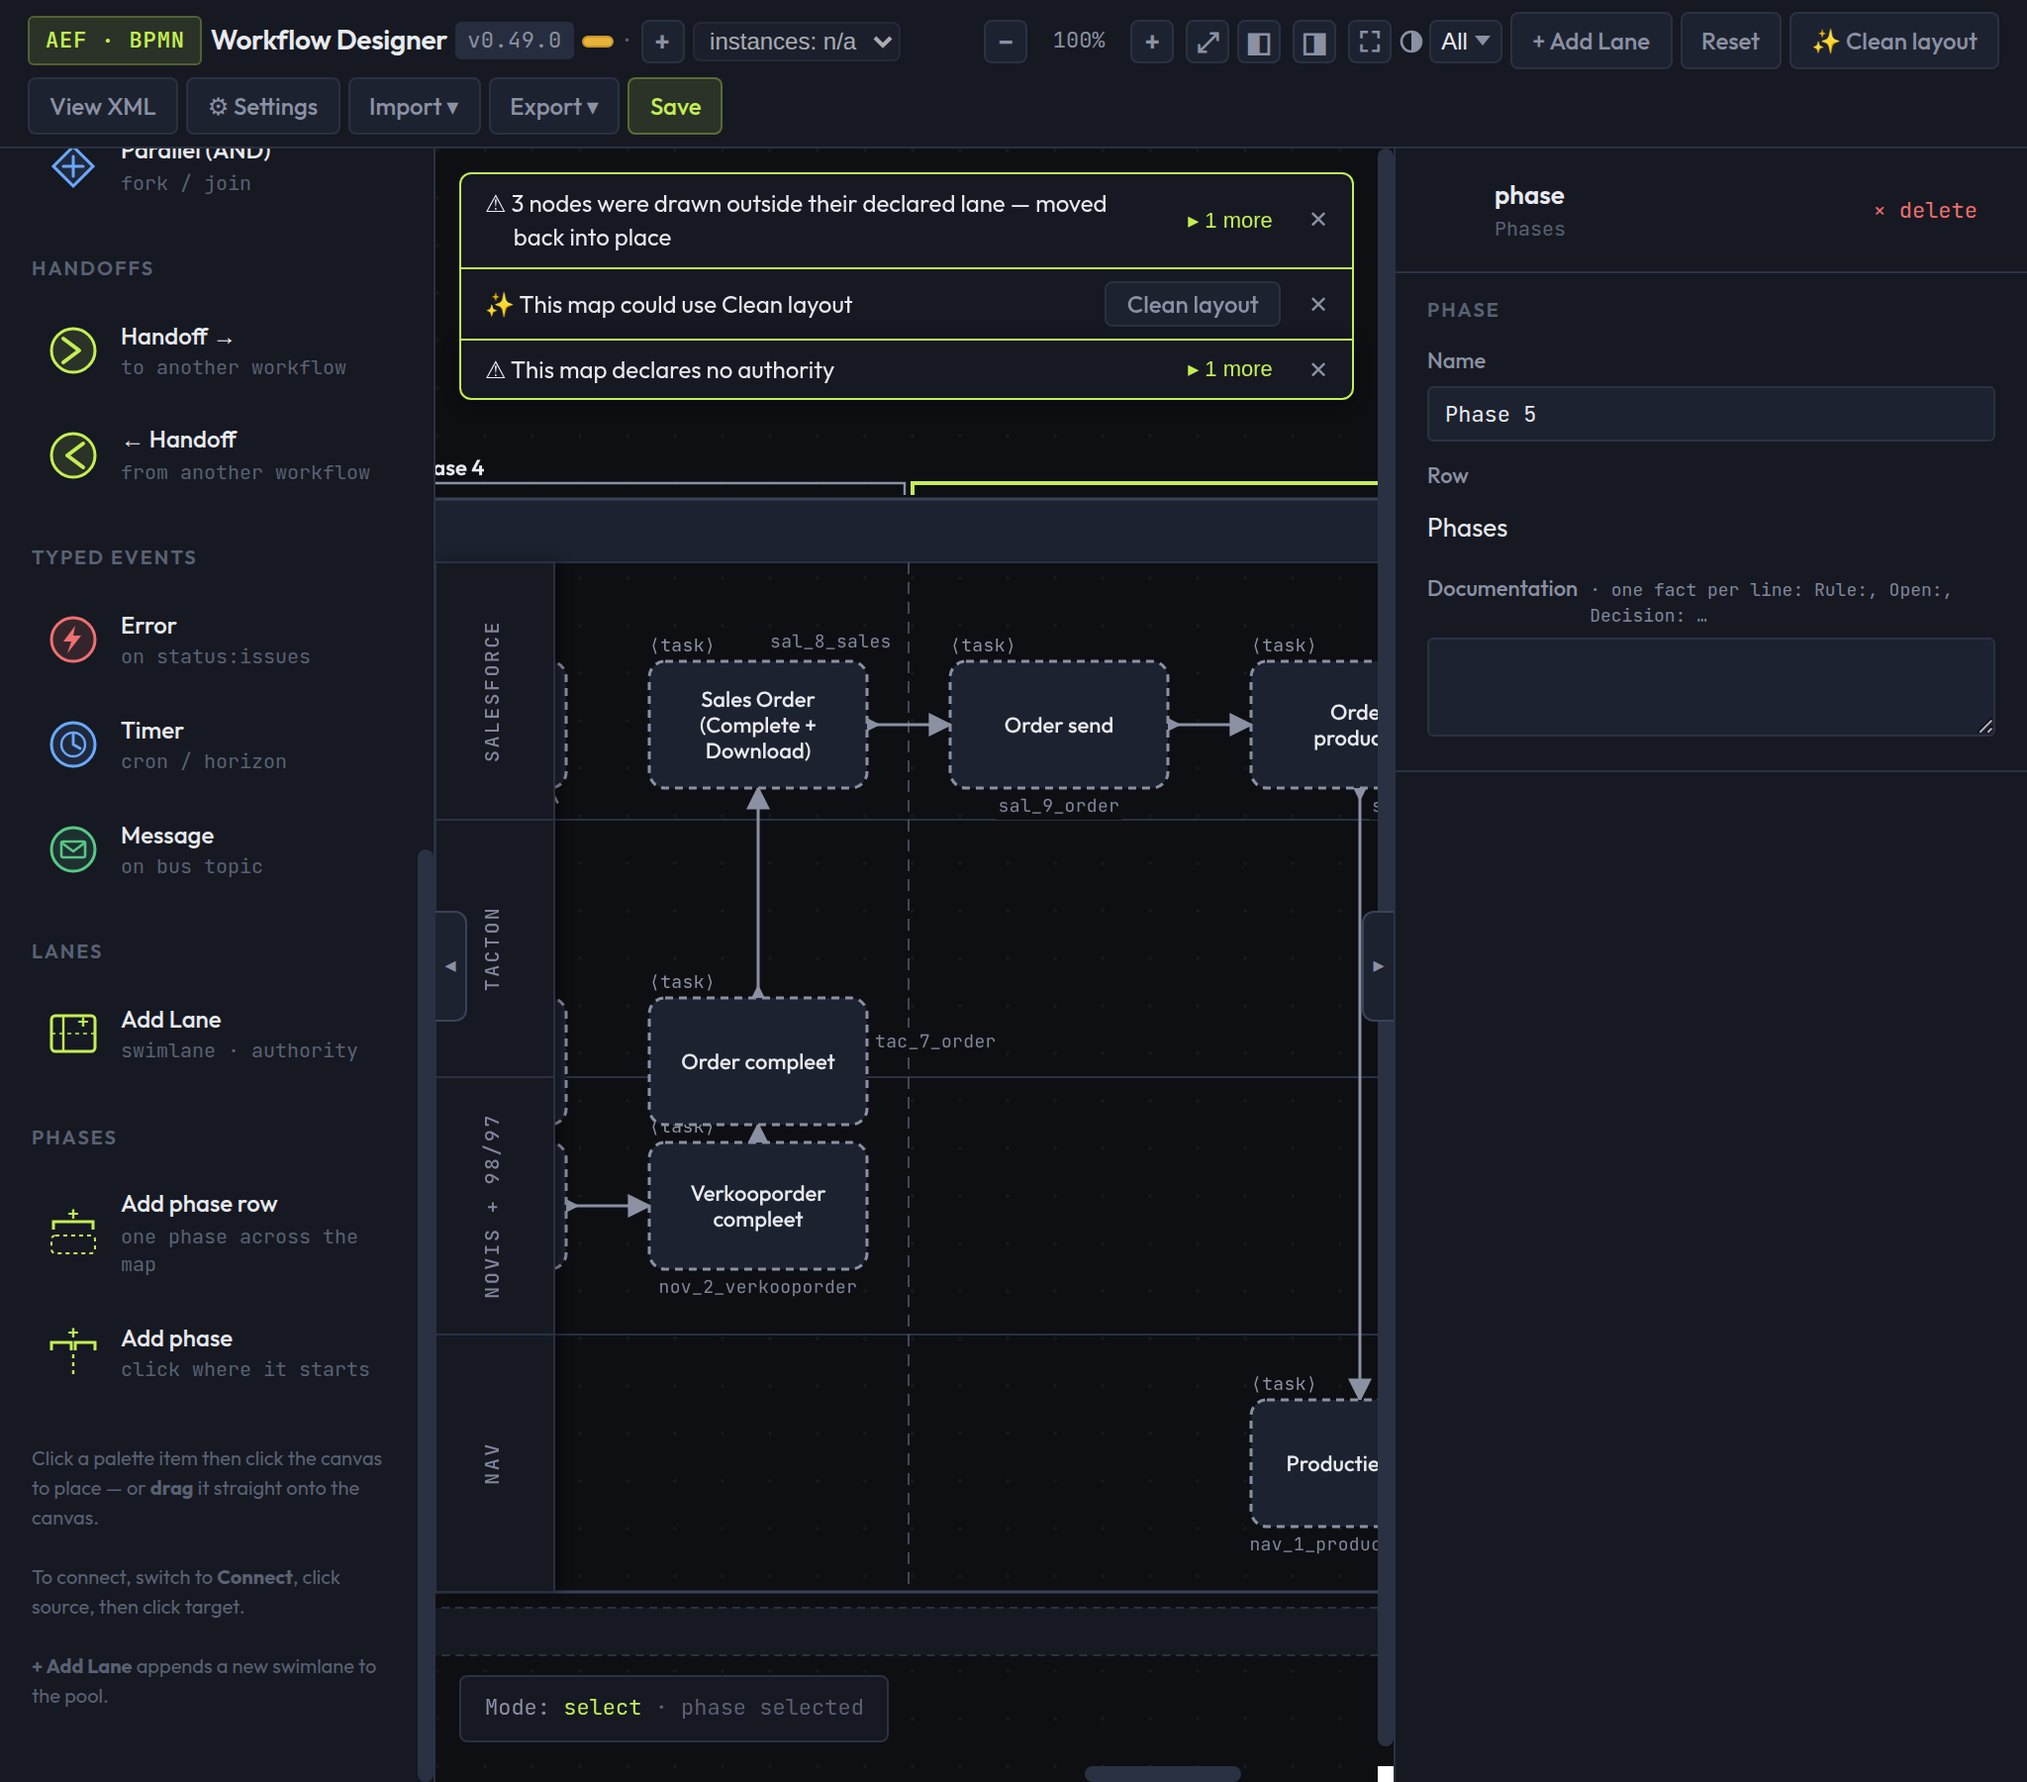
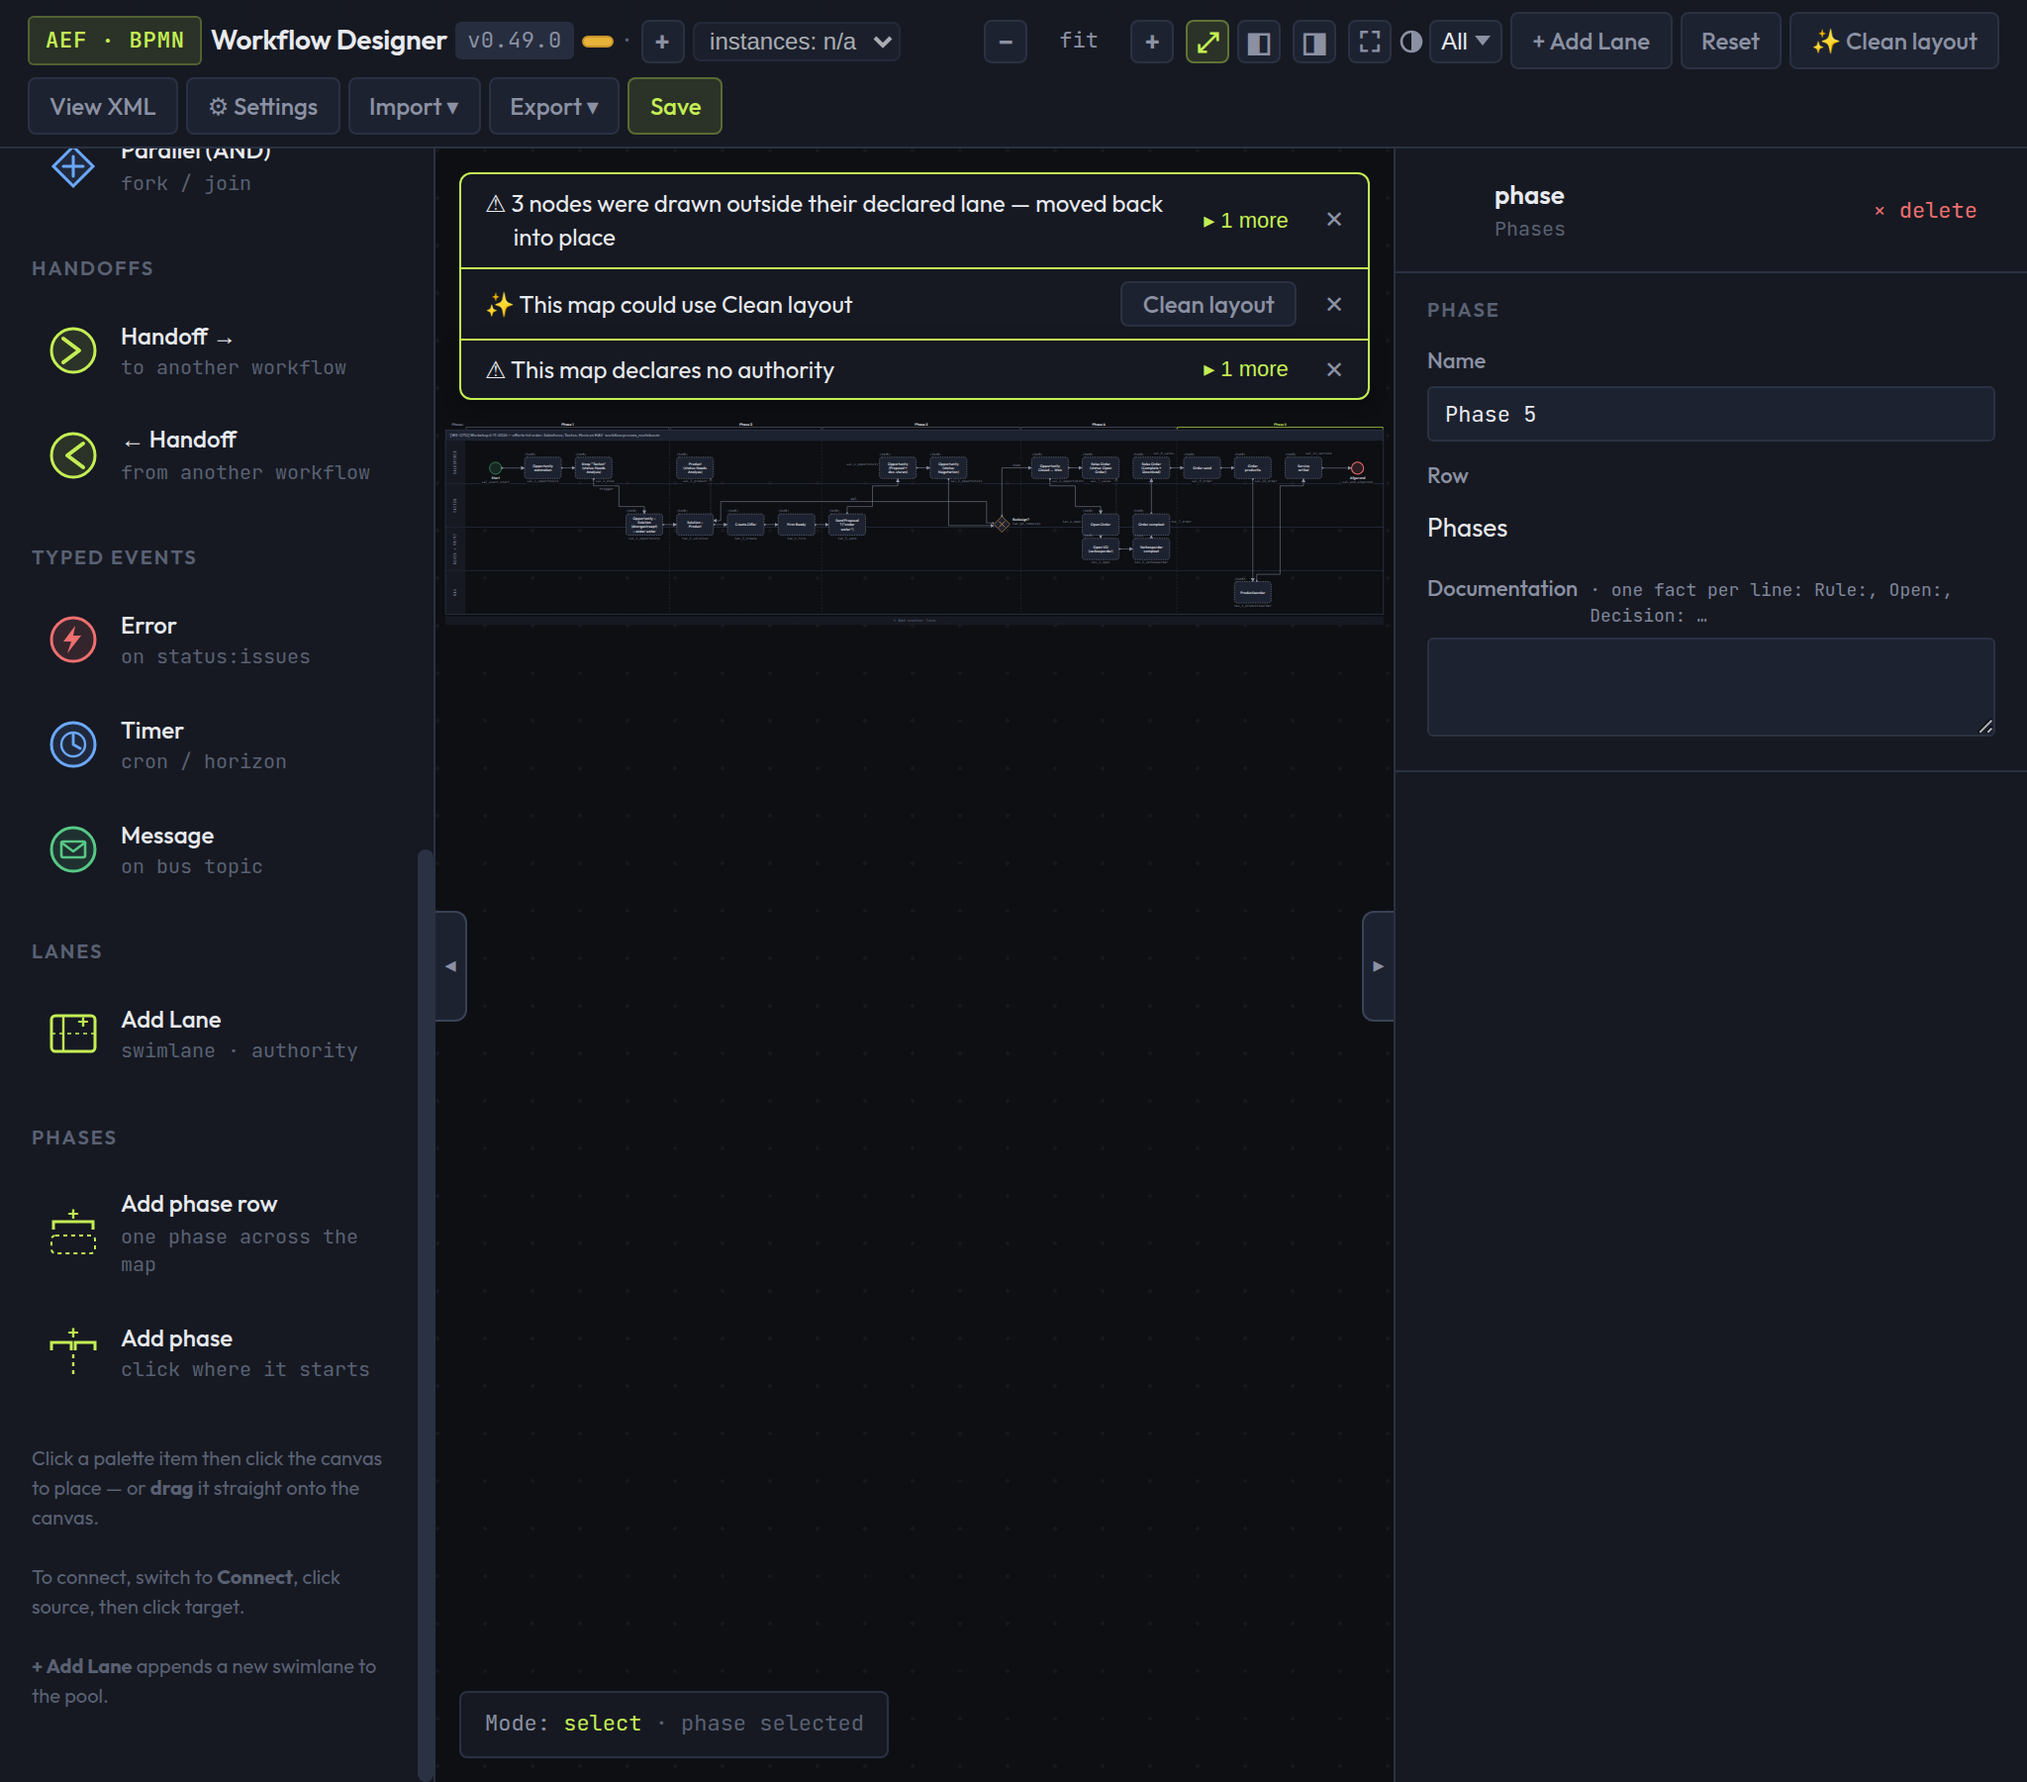
T-1504: five-phases shots fit the whole diagram, so all five brackets are in view (reviewer amber: the scrolled view showed two)

diff --git a/.tasks/active/T-1504-phases-slice-b-t-1491-go-a-phases-sectio.md b/.tasks/active/T-1504-phases-slice-b-t-1491-go-a-phases-sectio.md
@@ -10,8 +10,8 @@ description: >
 
 status: started-work
 workflow_type: build
-current_node: frw_1_start
-owner: agent
+current_node: frw_3_run
+owner: human
 horizon: now
 tags: [designer, phases, greenfield, aef-dependent]
 components: []
@@ -43,7 +43,7 @@ related_tasks: []
 #                                 # session from consuming the captured→started-work transition the demo
 #                                 # worker expects to drive. Origin OBS-057.
 created: 2026-11-24T11:08:18Z
-last_update: 2026-11-25T09:56:28Z
+last_update: 2026-11-25T10:38:39Z
 date_finished:
 # revisit_at: YYYY-MM-DD          # T-1451: set on DEFER decisions to enable G-053 daily revisit scan
 # revisit_evidence_needed:        # T-1451: one-line description of what evidence makes the revisit actionable
@@ -124,12 +124,18 @@ select the new phase so the panel (slice A) renames it.
   **Evidence:** `tools/_t1504-phase-add-cdp.mjs` B1, B2 and B5 green (real clicks on the palette and the map; four splits make
   five phases, each boundary a step gap; undo 5→4, redo 4→5; Esc leaves Add phase without a change; the dashed preview
   line drawn on hover). Teeth: `T1504_EDITOR=dist/aef-workflow-designer-0.49.0.html` fails B1 (no Phases section).
-- [ ] The save writes standard BPMN (root category with values, groups with categoryValueRef, full-pool-height group
+- [x] The save writes standard BPMN (root category with values, groups with categoryValueRef, full-pool-height group
   shapes, no aef extension); reopened here and by dist 0.49.0 it draws the same phases at the same boundaries; a map
   nobody adds phases to saves byte-identically; the browser tier green on a round
+  **Evidence:** harness B3 (one category, five values, five groups, five full-height shapes, no aef:), B4/B5 (read back
+  here and by dist 0.49.0: same names, same x ranges; starter and Greenfield's stripped sample), B6 (starter and
+  stripped sample save as 0.49.0 saves them, uuid aside). Browser tier GREEN on the round at 3ad426ffd (pool split and
+  local); core green on the push gate (e32ae2f6d pushed). Three pool reds before it were the harness, not the designer:
+  a page-switch race and an autosave-after-clear (fixed: about:blank + CDP storage clear), then a renderer crash on
+  ring20-live (fixed: --disable-dev-shm-usage; class fix T-1523).
 
 ### Human
-- [x] Adding phases from the left panel reads like adding a lane: a person finds the Phases section, understands what
+- [ ] Adding phases from the left panel reads like adding a lane: a person finds the Phases section, understands what
   "Add phase row" and "Add phase" do, and sees where the split will land before clicking
   **Judged by:** the independent reviewer on the images (`fw reviewer judge T-1504 --criterion 1`), who may escalate.
   **Steps:**
@@ -189,7 +195,6 @@ select the new phase so the panel (slice A) renames it.
   listed state needs screenshots at every UX_SHOT_WIDTHS width:
   fw ux shots <T-ID> <state>=<URL>. This comment is inert: the gate ignores it.
 -->
-  **Reviewer verdict:** green V-20261125-b3023118 — reviewer-judge-t-1504-r3-997c3df1bd03:reviewer (rung rung-3-termlink-single-reviewer), digest f23b4a747e15; dispatch judge-t-1504-r3-997c3df1bd03; evidence: .context/reviews/evidence/T-1504/AC1-judge-t-1504-r3-997c3df1bd03.md, .context/reviews/evidence/T-1504/palette-1024-judge-t-1504-r3-997c3df1bd03.png, .context/reviews/evidence/T-1504/palette-1440-judge-t-1504-r3-997c3df1bd03.png, .context/reviews/evidence/T-1504/palette-1920-judge-t-1504-r3-997c3df1bd03.png, .context/reviews/evidence/T-1504/row-added-1024-judge-t-1504-r3-997c3df1bd03.png, .context/reviews/evidence/T-1504/row-added-1440-judge-t-1504-r3-997c3df1bd03.png, .context/reviews/evidence/T-1504/row-added-1920-judge-t-1504-r3-997c3df1bd03.png, .context/reviews/evidence/T-1504/split-preview-1024-judge-t-1504-r3-997c3df1bd03.png, .context/reviews/evidence/T-1504/split-preview-1440-judge-t-1504-r3-997c3df1bd03.png, .context/reviews/evidence/T-1504/split-preview-1920-judge-t-1504-r3-997c3df1bd03.png, .context/reviews/evidence/T-1504/five-phases-1024-judge-t-1504-r3-997c3df1bd03.png, .context/reviews/evidence/T-1504/five-phases-1440-judge-t-1504-r3-997c3df1bd03.png, .context/reviews/evidence/T-1504/five-phases-1920-judge-t-1504-r3-997c3df1bd03.png; ledger .context/reviews/verdicts.jsonl
 
 ## Verification
 
